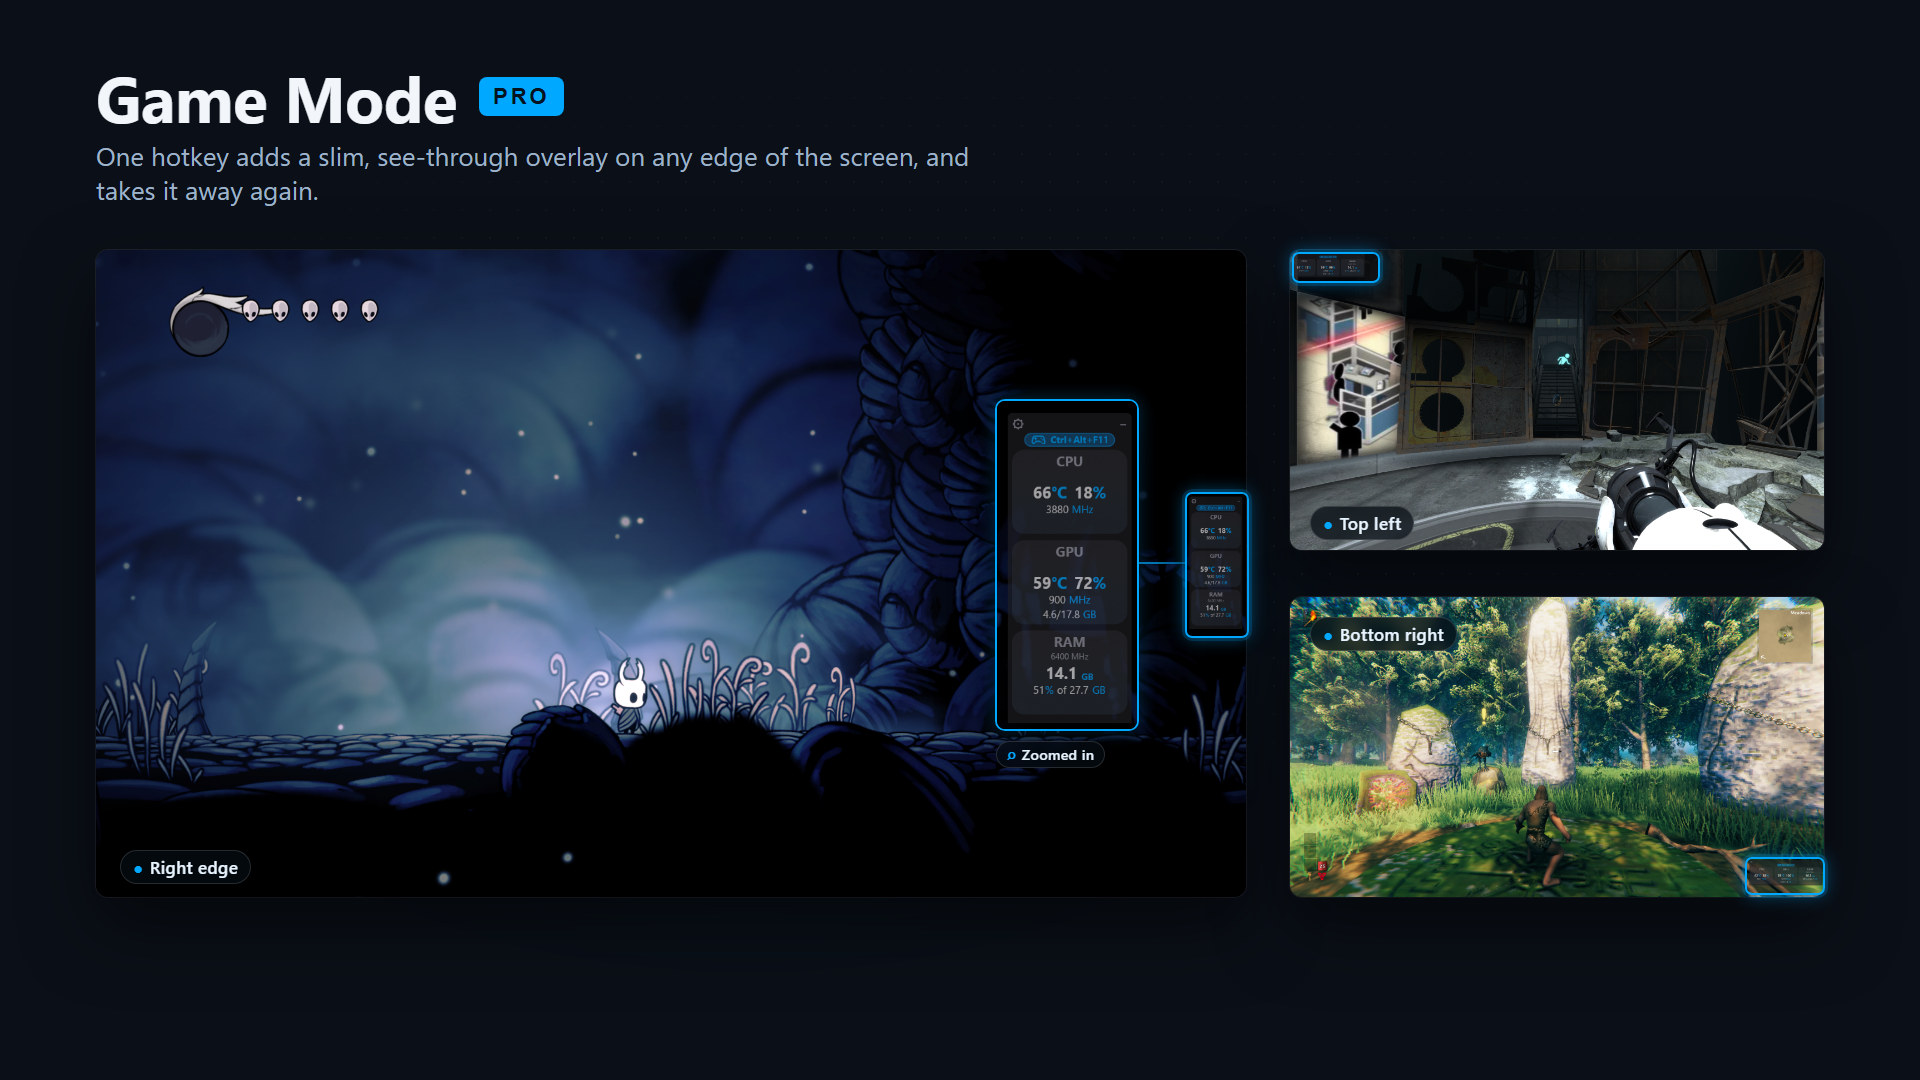
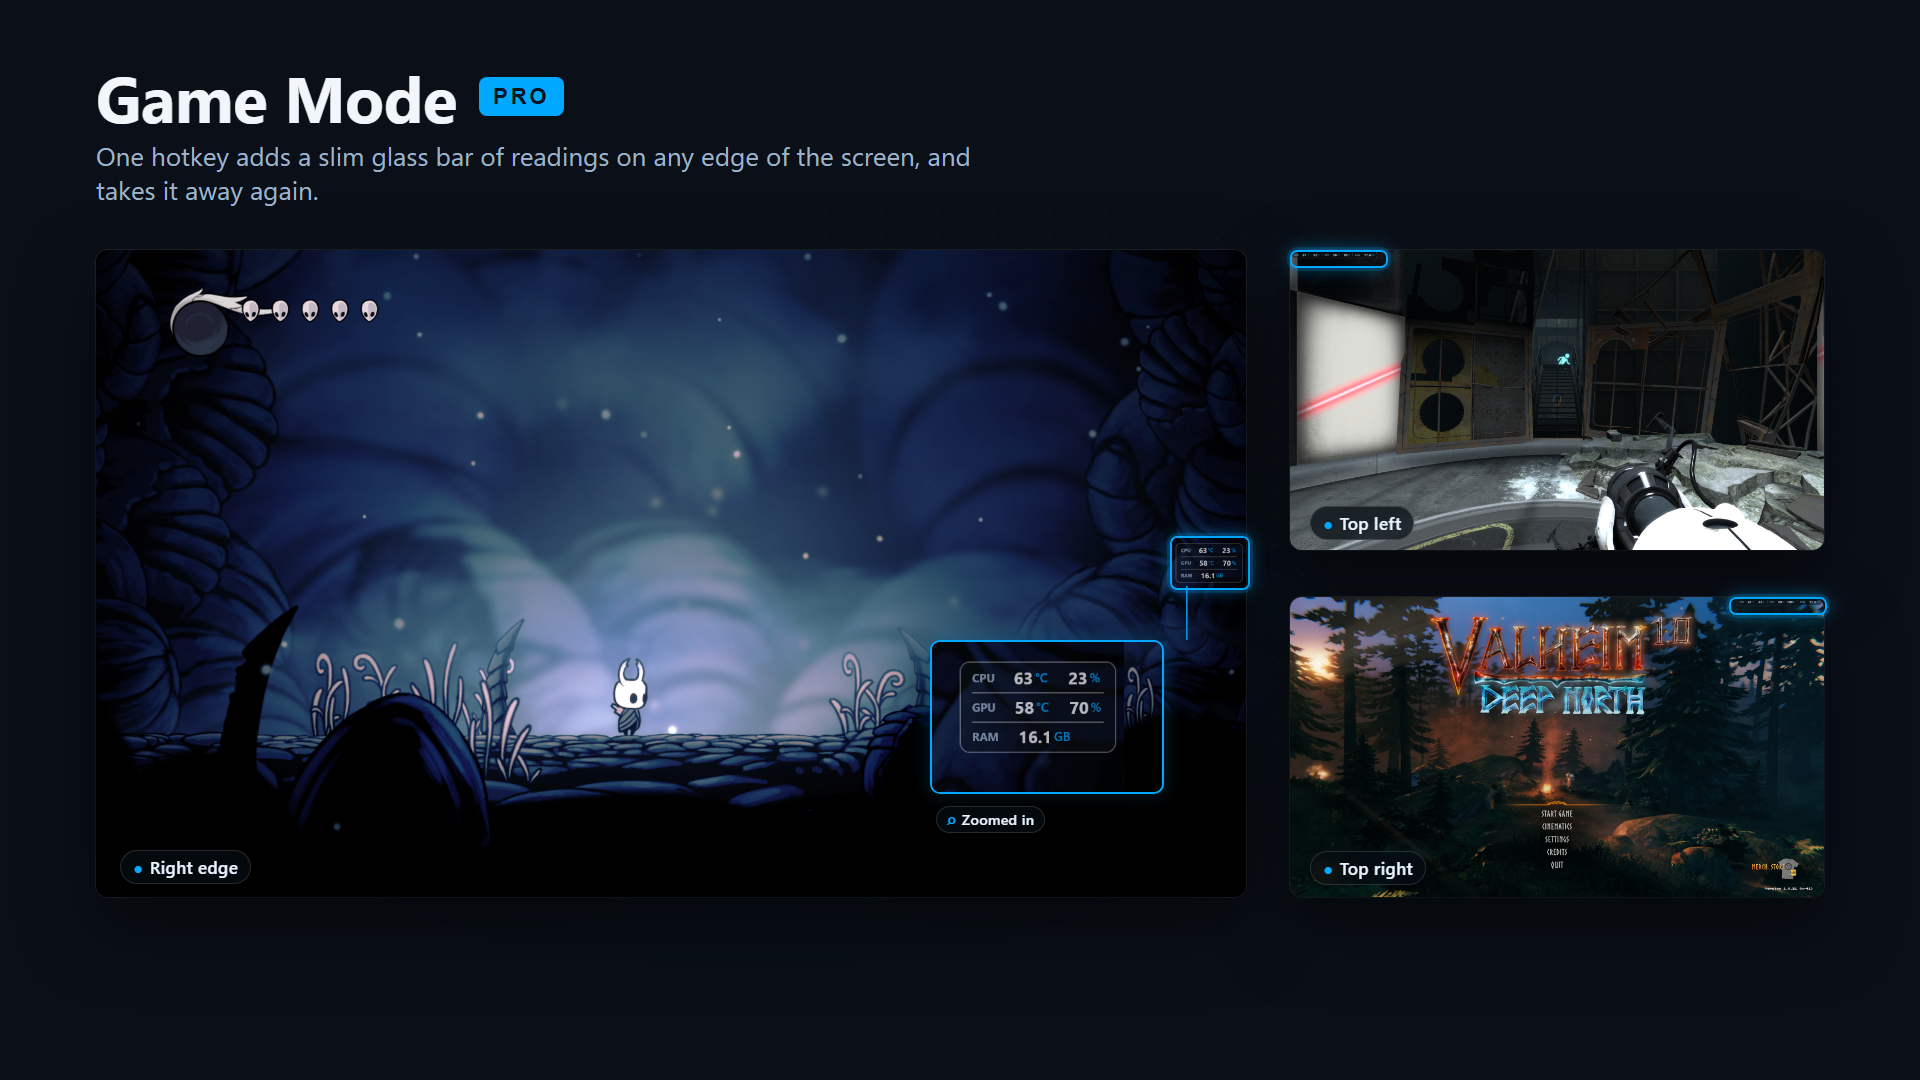
v1.0.2: README points at Flux Lite 1.0.2 (tag v1.3.17), with its checksum and scan; Game Mode picture shows the glass bar

Changed region(s): [[0.0312, 0.2139, 0.9688, 0.8556], [0.1875, 0.1222, 0.5, 0.1528], [0.1875, 0.3056, 0.2188, 0.3361]]

diff --git a/README.md b/README.md
@@ -4,8 +4,8 @@
 Flux Monitor keeps live CPU, GPU, memory, network and disk readings in a compact
 desktop widget, and Storage Explorer shows which folders fill your drives.
 
-[![Release](https://img.shields.io/badge/release-v1.3.16-5898a0)](https://github.com/matthew-hakes/FluxMonitor/releases/tag/v1.3.16)
-[![VirusTotal](https://img.shields.io/badge/VirusTotal-0%2F71-2ea44f)](https://www.virustotal.com/gui/file/e385091de098d9981f898ae8ccb8979ef850166bfccb6fda6c02efc42372ad0b)
+[![Release](https://img.shields.io/badge/release-v1.0.2-5898a0)](https://github.com/matthew-hakes/FluxMonitor/releases/tag/v1.3.17)
+[![VirusTotal](https://img.shields.io/badge/VirusTotal-0%2F71-2ea44f)](https://www.virustotal.com/gui/file/0bda8fa3919471d982bc8d09ab4a756fba118b9d0f019489ef6d1cd058e21164)
 ![Windows 10 and 11](https://img.shields.io/badge/Windows-10%20%7C%2011-0078d4)
 
 This repository provides downloads and documentation. The application source is private.
@@ -37,16 +37,16 @@ This repository provides downloads and documentation. The application source is 
     <td width="50%" valign="top"><a href="docs/images/pro-alerts.png"><img src="docs/images/pro-alerts.png" alt="A tile warming and then flashing red past its limit"></a><br><b>Tile Alerts.</b> Readings warm as they climb, and the tile flashes past your limit.</td>
   </tr>
   <tr>
-    <td width="50%" valign="top"><a href="docs/images/pro-game-mode.png"><img src="docs/images/pro-game-mode.png" alt="Game Mode overlay over three games in different screen positions"></a><br><b>Game Mode.</b> One hotkey adds a slim, see-through overlay on any screen edge.</td>
+    <td width="50%" valign="top"><a href="docs/images/pro-game-mode.png"><img src="docs/images/pro-game-mode.png" alt="Game Mode glass bar over three games in different screen positions"></a><br><b>Game Mode.</b> One hotkey adds a slim glass bar of readings on any screen edge.</td>
     <td width="50%" valign="top"><a href="docs/images/pro-remote.png"><img src="docs/images/pro-remote.png" alt="Remote monitoring with device tabs and a pop-out window"></a><br><b>Remote monitoring.</b> Watch up to four other PCs on your network, in tabs or their own windows.</td>
   </tr>
 </table>
 
 ## Release status
 
-The latest Windows download is **Flux Lite v1.3.16**, the free standalone edition
+The latest Windows download is **Flux Lite v1.0.2**, the free standalone edition
 (called "Flux Free" up to v1.3.14). See its
-[release notes](https://github.com/matthew-hakes/FluxMonitor/releases/tag/v1.3.16)
+[release notes](https://github.com/matthew-hakes/FluxMonitor/releases/tag/v1.3.17)
 for what changed. The Microsoft Store edition and its Pro upgrade are in private
 beta and are not publicly available yet.
 
@@ -98,16 +98,16 @@ authorized to monitor.
 
 ### Windows
 
-1. Download `flux-lite-setup-v1.3.16.exe` and its `.sha256` file from the
-   [v1.3.16 release](https://github.com/matthew-hakes/FluxMonitor/releases/tag/v1.3.16).
+1. Download `flux-lite-setup-v1.0.2.exe` and its `.sha256` file from the
+   [v1.0.2 release](https://github.com/matthew-hakes/FluxMonitor/releases/tag/v1.3.17).
 2. Check that the file matches the published checksum:
 
    ```powershell
-   Get-FileHash .\flux-lite-setup-v1.3.16.exe -Algorithm SHA256
+   Get-FileHash .\flux-lite-setup-v1.0.2.exe -Algorithm SHA256
    ```
 
[1 lines of base64/hex data omitted]
-   - VirusTotal: **0 / 71**, [view the scan](https://www.virustotal.com/gui/file/e385091de098d9981f898ae8ccb8979ef850166bfccb6fda6c02efc42372ad0b)
[1 lines of base64/hex data omitted]
+   - VirusTotal: **0 / 71**, [view the scan](https://www.virustotal.com/gui/file/0bda8fa3919471d982bc8d09ab4a756fba118b9d0f019489ef6d1cd058e21164)
 
 3. Run the installer.
 
